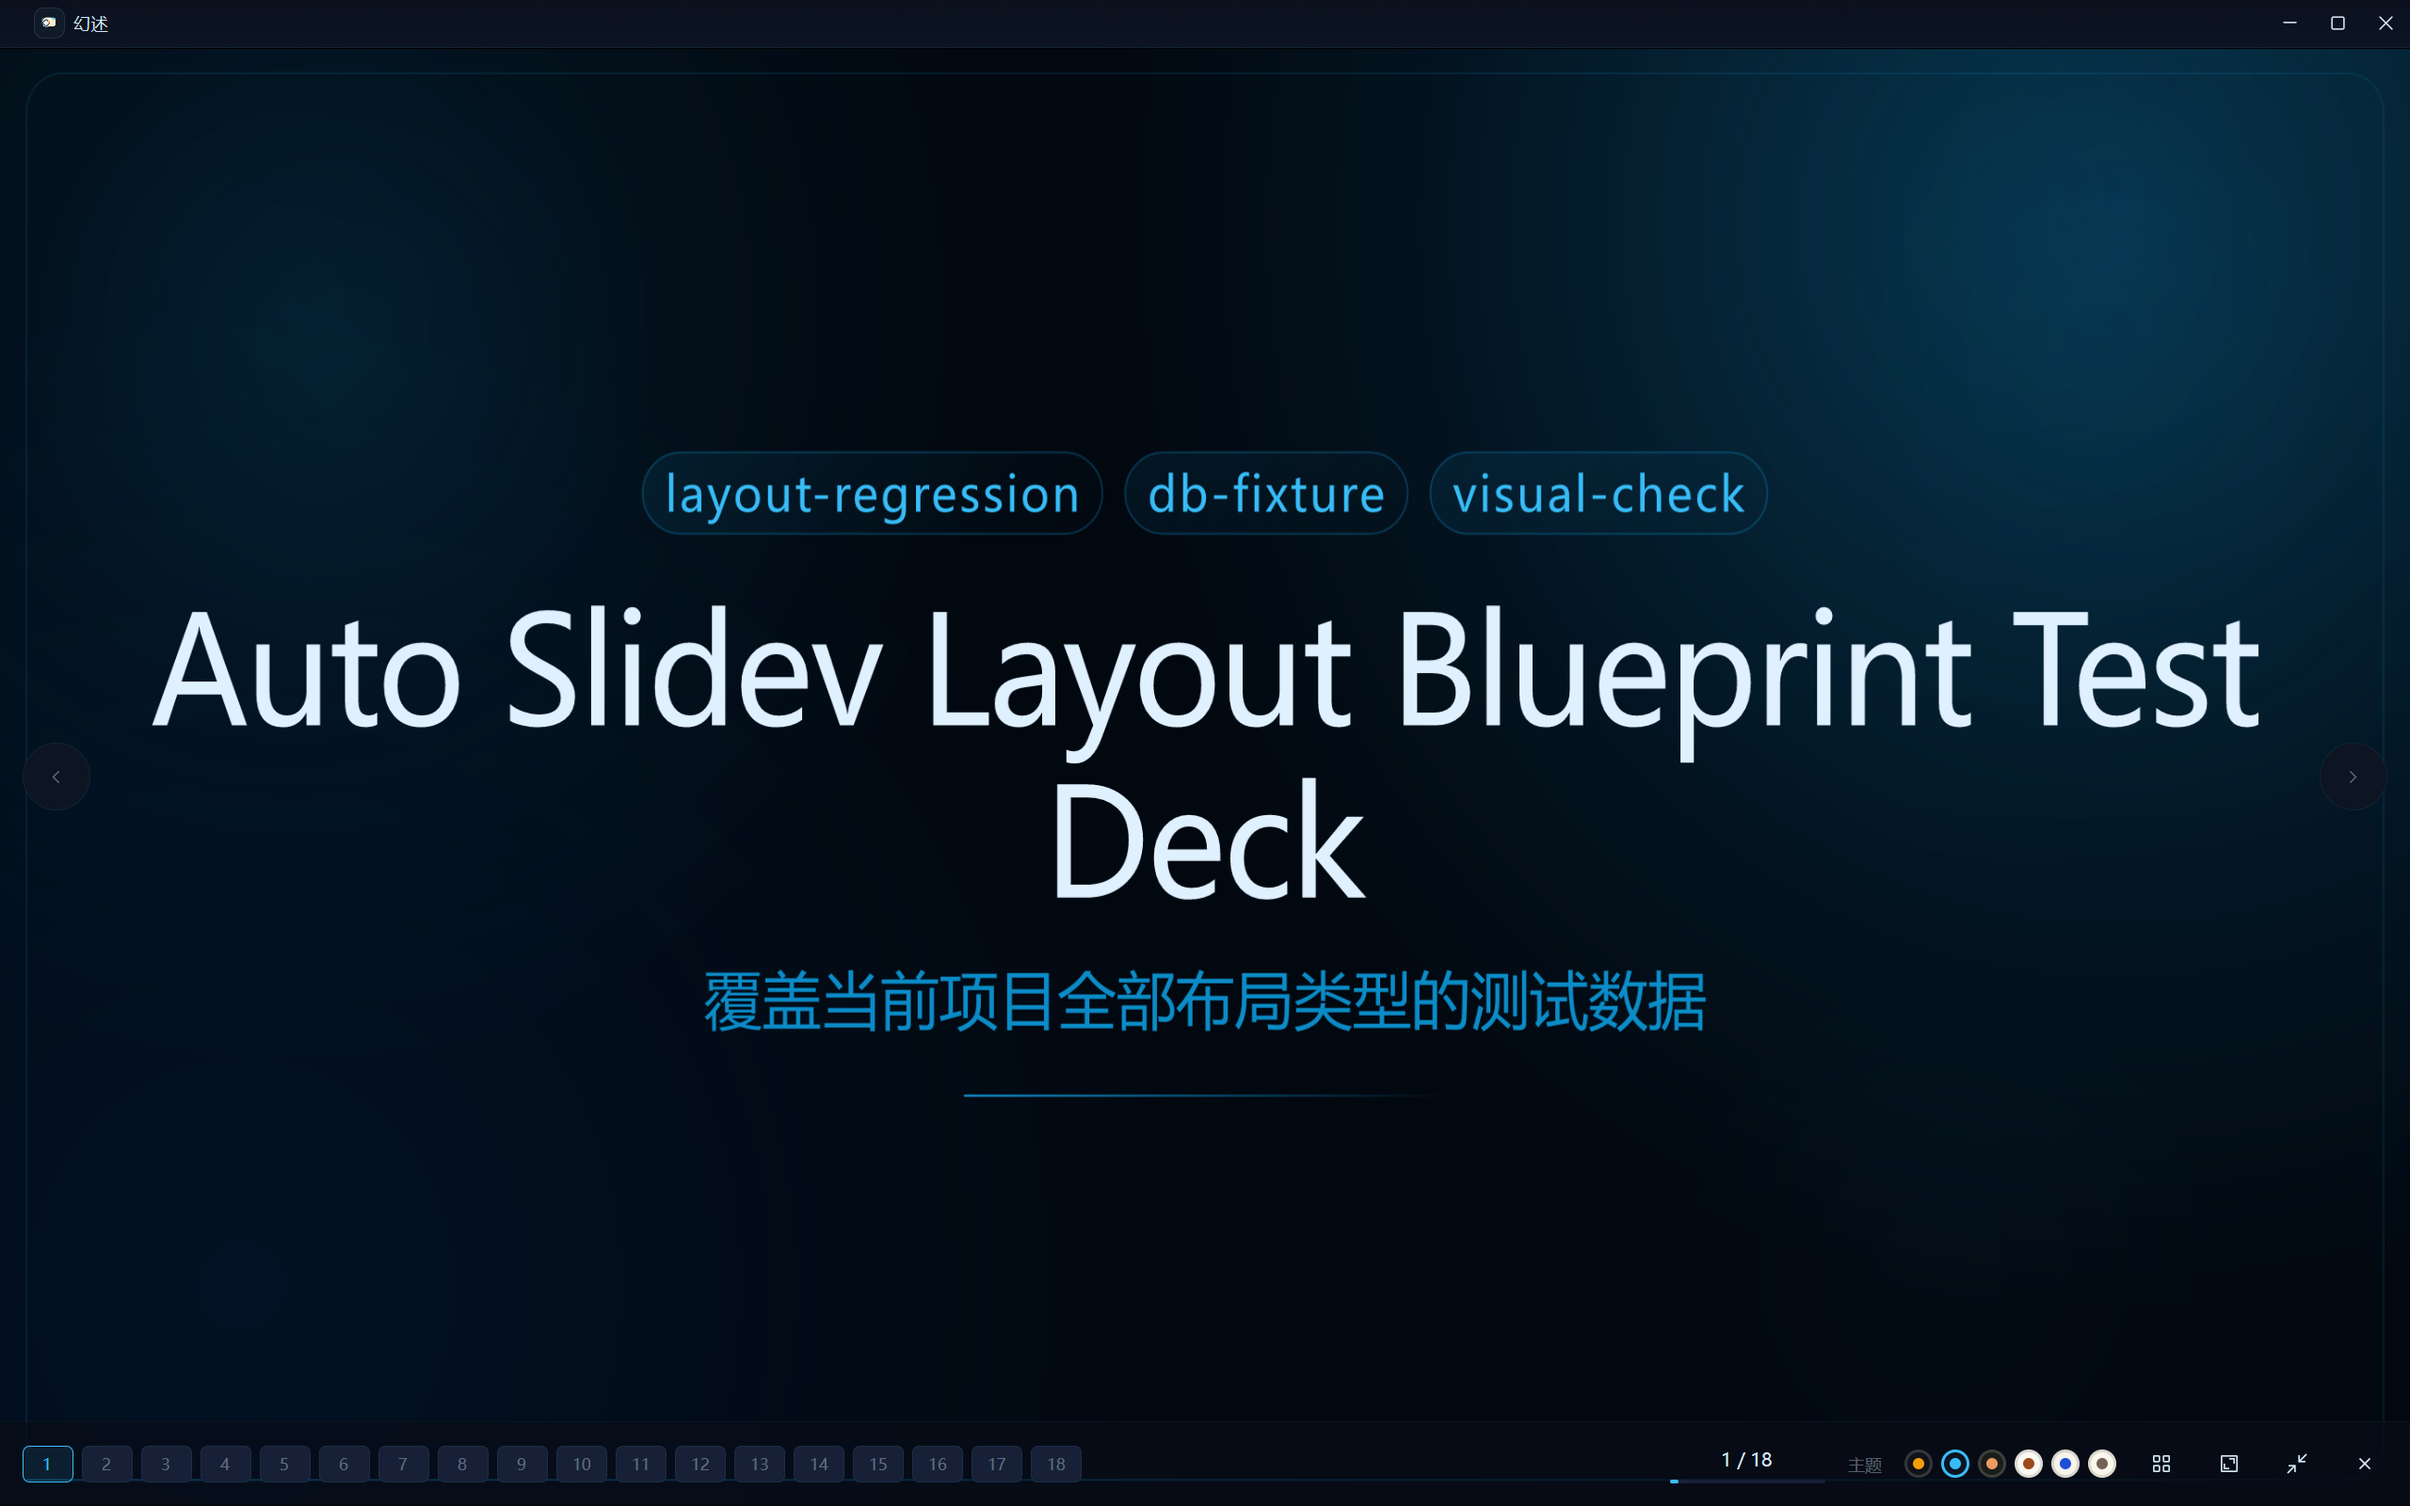
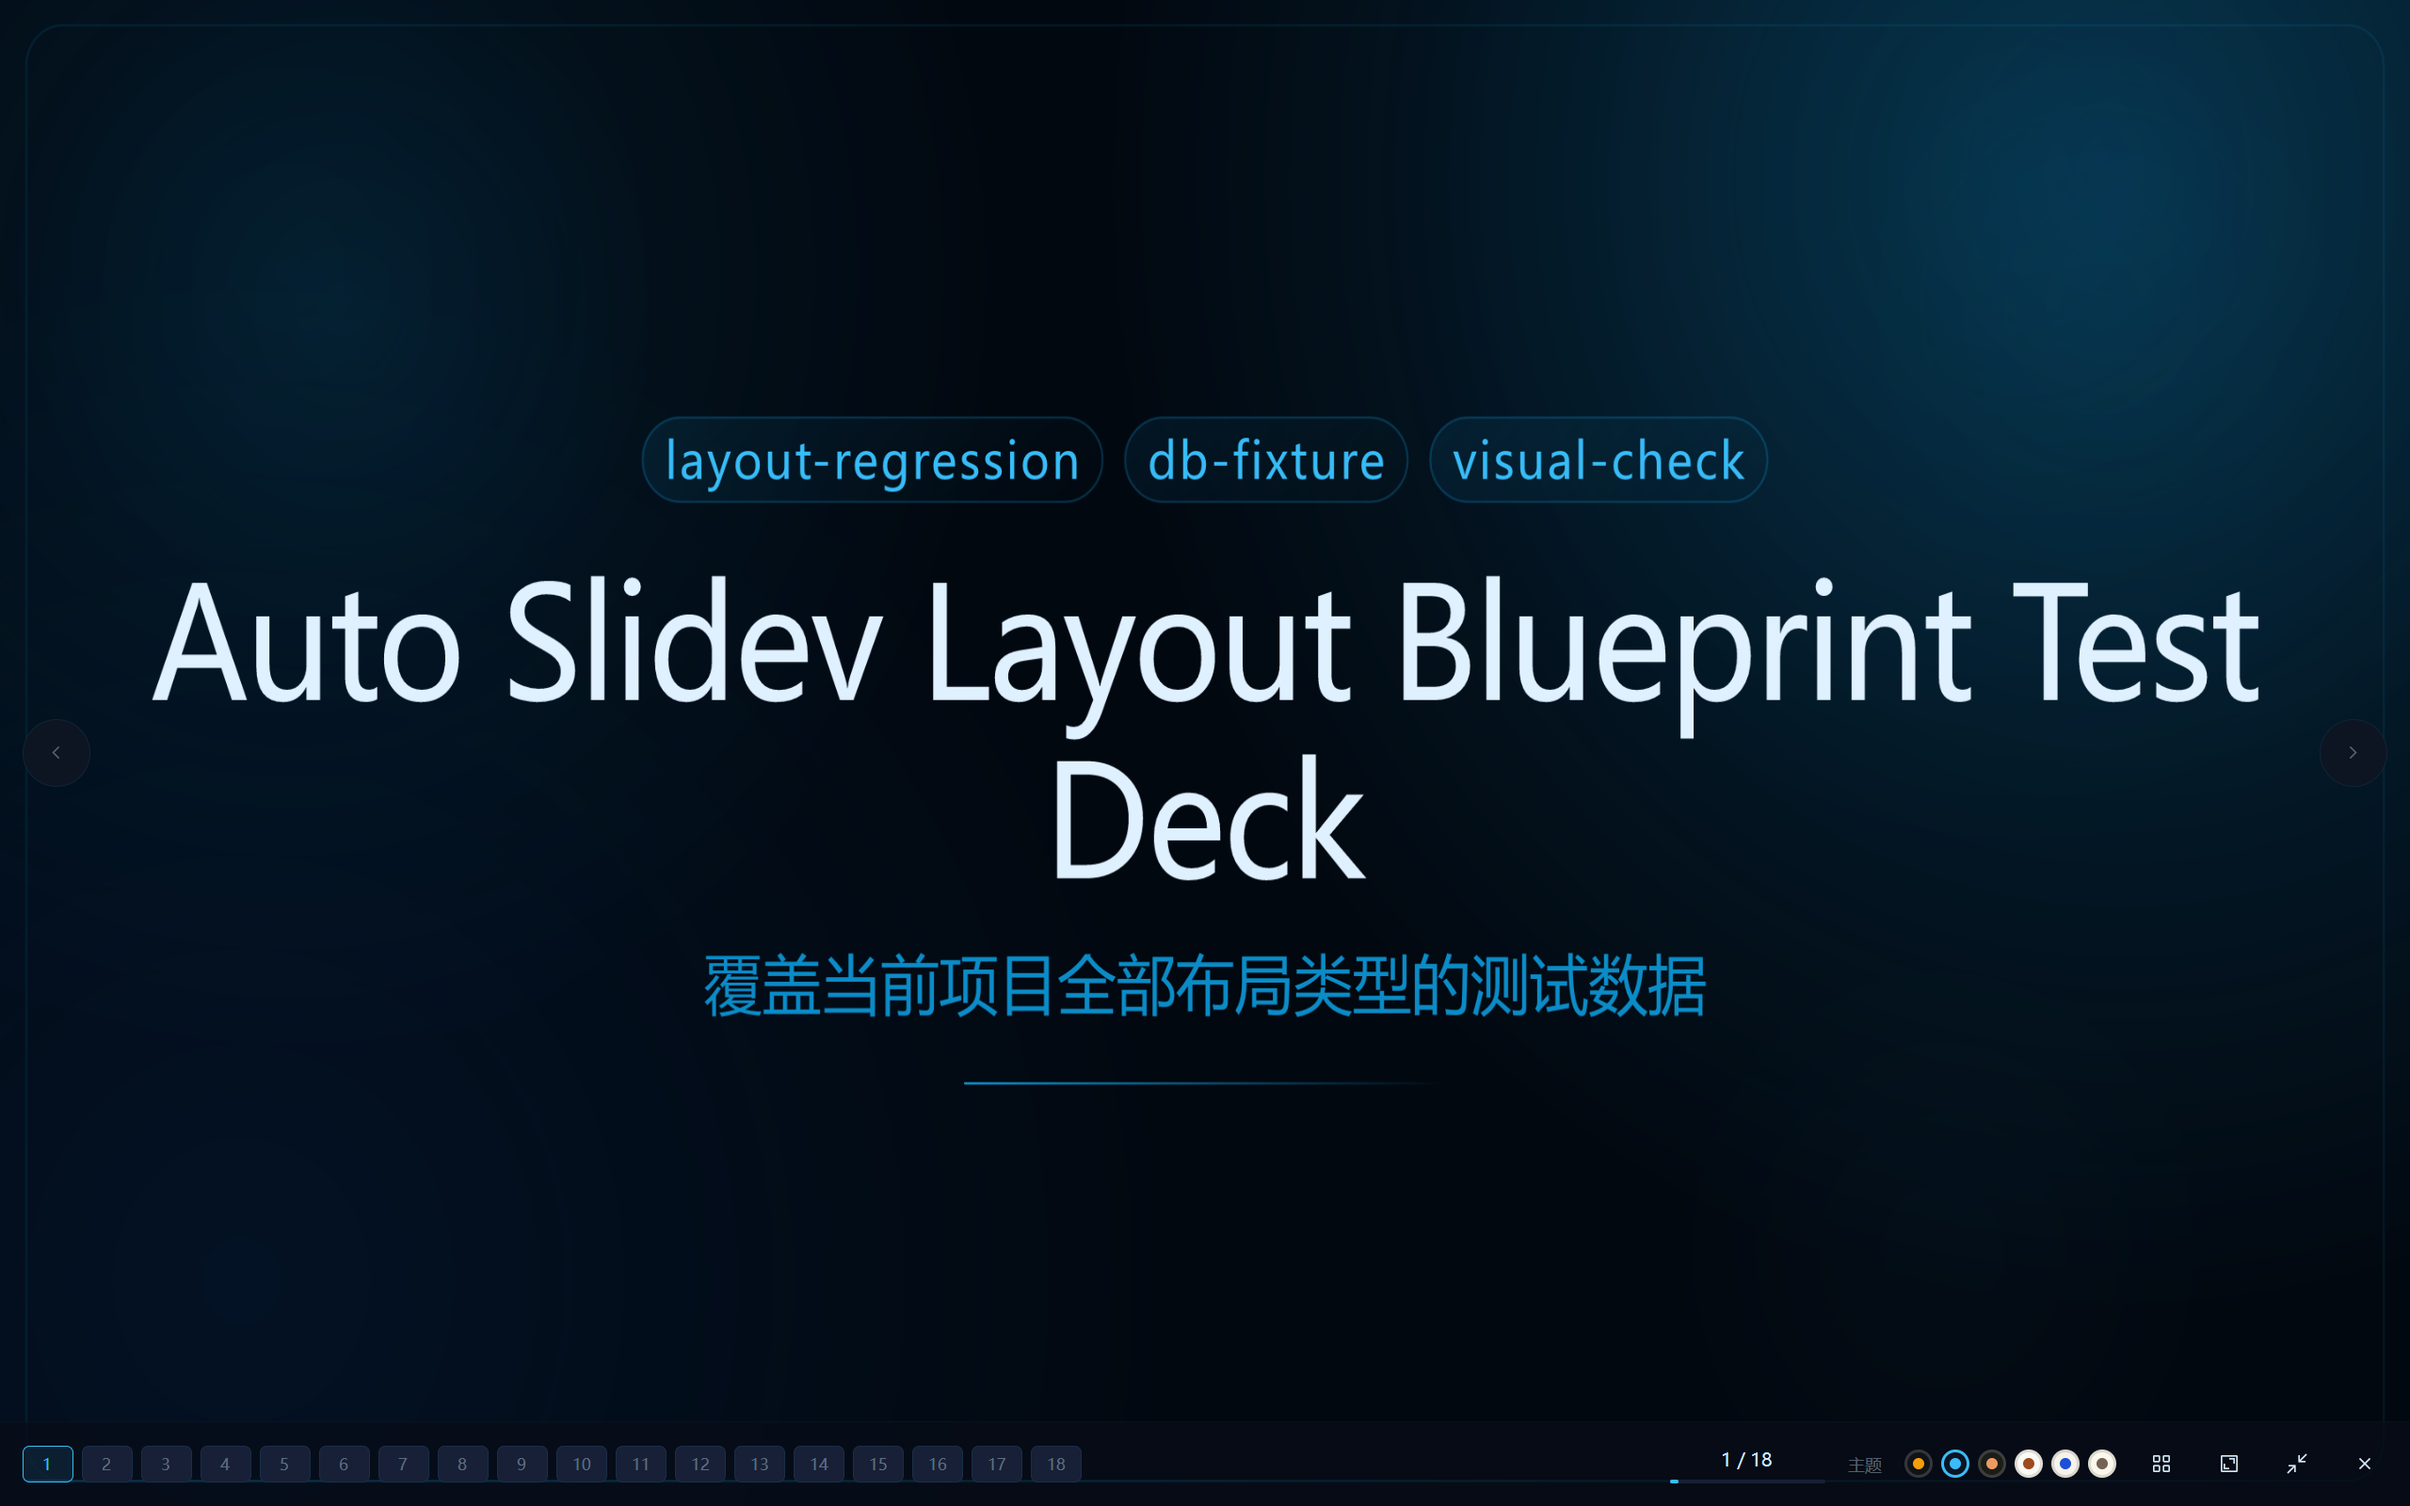
fix(native): no title bar in a fullscreen presentation; 8 MiB main stack
- Fullscreen presentation: the shell no longer draws the title bar (the
  original fullscreens the overlay element itself), and the stage uses
  the whole screen. Screenshots retaken.
- build.rs raises the Windows main-thread stack to 8 MiB: debug builds
  overflowed the default 1 MiB on the step 3 editor form.
- CLAUDE.md: Esc semantics in presentations, the stack size note.

diff --git a/apps/huanshu-native/src/present.rs b/apps/huanshu-native/src/present.rs
@@ -263,19 +263,17 @@ impl Presentation {
     /// 原版：非全屏时可用区 = `window.innerWidth - 96` × `window.innerHeight - 88`
     /// （`padH` / `padV`），全屏时都是 0（幻灯片铺满）；两个方向都 `max(…, 1)`。
     ///
-    /// 原生差异：原版的覆盖层是 `position: fixed; inset: 0`，铺满整个窗口（连标题栏那条也盖住，
-    /// 标题栏再用更高的 z-index 浮在上面），`window.innerHeight` 因此含标题栏；原生覆盖层是外壳里
-    /// 标题栏**下面**的一层（`shell.rs`，标题栏仍在），可视区只有 `viewport_size` 减掉标题栏。
-    /// 所以这里按覆盖层自己的区域算：全屏时正好铺满，非全屏时留出原版的 96 / 88 边距，
-    /// 否则全屏那张图会溢出容器 36px（上下各露 18px 到标题栏和屏幕外）。
-    /// 窗口视口用 `window.viewport_size()`（含标题栏，与原版 `window.innerHeight` 同口径）。
+    /// 原版全屏时是覆盖层元素自己进全屏（`presOverlayRef.requestFullscreen()`），标题栏看不见；
+    /// 原生外壳在全屏演示时也不画标题栏（`shell.rs`），所以全屏可用区是整个视口。非全屏时原生
+    /// 覆盖层在标题栏**下面**，可用区是视口减标题栏，再留原版的 96 / 88 边距。
     fn stage_size(&self, window: &Window) -> (f32, f32) {
         let size = window.viewport_size();
         let area_w = size.width.as_f32().max(1.0);
-        let area_h = (size.height.as_f32() - crate::theme::TITLEBAR_HEIGHT).max(1.0);
+        // 全屏时外壳不画标题栏（见 `shell.rs`），覆盖层就是整个屏幕；非全屏时它在标题栏下面。
         let (avail_w, avail_h) = if window.is_fullscreen() {
-            (area_w, area_h)
+            (area_w, size.height.as_f32().max(1.0))
         } else {
+            let area_h = (size.height.as_f32() - crate::theme::TITLEBAR_HEIGHT).max(1.0);
             ((area_w - 96.0).max(1.0), (area_h - 88.0).max(1.0))
         };
         if self.stretch {

diff --git a/apps/huanshu-native/src/shell.rs b/apps/huanshu-native/src/shell.rs
@@ -216,7 +216,7 @@ fn build_page(
 }
 
 impl Render for Shell {
-    fn render(&mut self, _window: &mut Window, cx: &mut Context<Self>) -> impl IntoElement {
+    fn render(&mut self, window: &mut Window, cx: &mut Context<Self>) -> impl IntoElement {
         if !self.first_frame_logged {
             self.first_frame_logged = true;
             crate::note_first_frame();
@@ -236,7 +236,11 @@ impl Render for Shell {
             .text_color(studio.colors.text)
             .font_family(studio.interface_font.clone())
             .text_size(px(14.0))
-            .child(widgets::title_bar(cx))
+            // 全屏演示时没有标题栏：原版是演示元素自己进全屏（`requestFullscreen`），盖住整个屏幕。
+            .when(
+                !(self.presentation.is_some() && window.is_fullscreen()),
+                |shell| shell.child(widgets::title_bar(cx)),
+            )
             .child(
                 div()
                     .relative()

diff --git a/apps/huanshu-native/build.rs b/apps/huanshu-native/build.rs
@@ -1,0 +1,10 @@
+//! Windows gives the main thread a 1 MiB stack. Unoptimised builds keep large stack frames
+//! (GPUI element trees are built in deeply nested calls), and the third step's editor form
+//! overflowed it in debug builds. Raise it to 8 MiB for every Windows MSVC build.
+
+fn main() {
+    let target = std::env::var("TARGET").unwrap_or_default();
+    if target.contains("windows") && target.contains("msvc") {
+        println!("cargo:rustc-link-arg-bins=/STACK:8388608");
+    }
+}

diff --git a/docs/native/parity.md b/docs/native/parity.md
@@ -155,4 +155,4 @@
 | 切页动画 | ➖ | 原版有淡入/滑动；GPUI 下先不做 |
 | 触摸滑动翻页 | ✅ | `on_swipe` + `Swipe` 状态机（`ScrollWheelEvent.touch_phase` 累计，\|dx\|>\|dy\| 且 \|dx\|>50 翻页，左滑下一页；`did_swipe` 吞掉随后的舞台点击）；鼠标滚轮不触发；5 个单测。**真机触摸未验证**（本机无触摸屏，方向符号与合成点击需人工验收）；`target/drive/w1-w3`（滚轮不翻页） |
 | 全屏时控制条浮动 | ✅ | 全屏时控制条不再占位、叠在舞台底部：底色 72%、上边框 45% 不透明，默认透明下移 8px、悬停（只挂控制条自己）淡入上移 0.3s（`with_animation` 两端态，悬停标志拼进元素 id；`backdrop-filter` 模糊省略）；截图 `shell/present-full-0.png` / `present-full-hover-0.png`；非全屏照旧 flex 底部占位 |
-| 全屏铺满 / 非全屏留白 | ✅ | 舞台可用区全屏 = 覆盖层满幅、非全屏 = 覆盖层 − 96/88（原版 `stretchedViewport` 的 padH/padV，覆盖层口径即原版口径减原生标题栏）；非全屏四周黑底留白照原版 |
+| 全屏铺满 / 非全屏留白 | ✅ | 全屏时外壳不画标题栏（原版是覆盖层元素自己 `requestFullscreen`），舞台可用区 = 整个屏幕；非全屏 = 标题栏下的覆盖层 − 96/88（原版 `stretchedViewport` 的 padH/padV），四周黑底留白照原版；`shell/present-full-0.png` |

diff --git a/CLAUDE.md b/CLAUDE.md
@@ -68,7 +68,9 @@ cargo run -p huanshu-core --example seed_demo -- $env:HUANSHU_HOME   # 已有库
   Tauri 侧 store 生成结束取牌组走 `get_generation_deck`（发起生成的项目；`/new` 未落库时保留
   `get_blueprints`）；用户已打开别的项目时（`activeProjectId` 变了）结果不写进 store，`loadFromJson` 会
   `stopListening`，`WorkflowView` 生成后不再自己存 `gen.blueprints`（core 已落库，再存会把别的项目的牌组写进来）。
-- 演示是盖在当前页上的覆盖层（与原版一致），打开即全屏，Esc 先关全览再退出并退出全屏。
+- 演示是盖在当前页上的覆盖层（与原版一致），打开即全屏，全屏时外壳不画标题栏。Esc 照原版：先关全览；
+  全屏时只退出全屏，非全屏时才退出演示。
+- `apps/huanshu-native/build.rs` 把 Windows 主线程栈调到 8 MiB：默认 1 MiB，debug 构建打开第三步表单就栈溢出（release 不会）。
 - 主题存在 `app_settings` 的 `app_theme` 键，与 Tauri 版（WebView localStorage）暂不同步。
 - 量内存要量**本进程**：PowerShell 里的 `$PID` 是 PowerShell 自己。只读查看器阶段实测（release，5 分钟每 100ms 翻一页）工作集稳定在 385–412 MiB。
 - **原版首次向导在沙箱里会指回真实目录**：`FirstRunWizard.vue` 用前端的 `localDataDir()` 拼默认目录，不认 `HUANSHU_HOME`。
